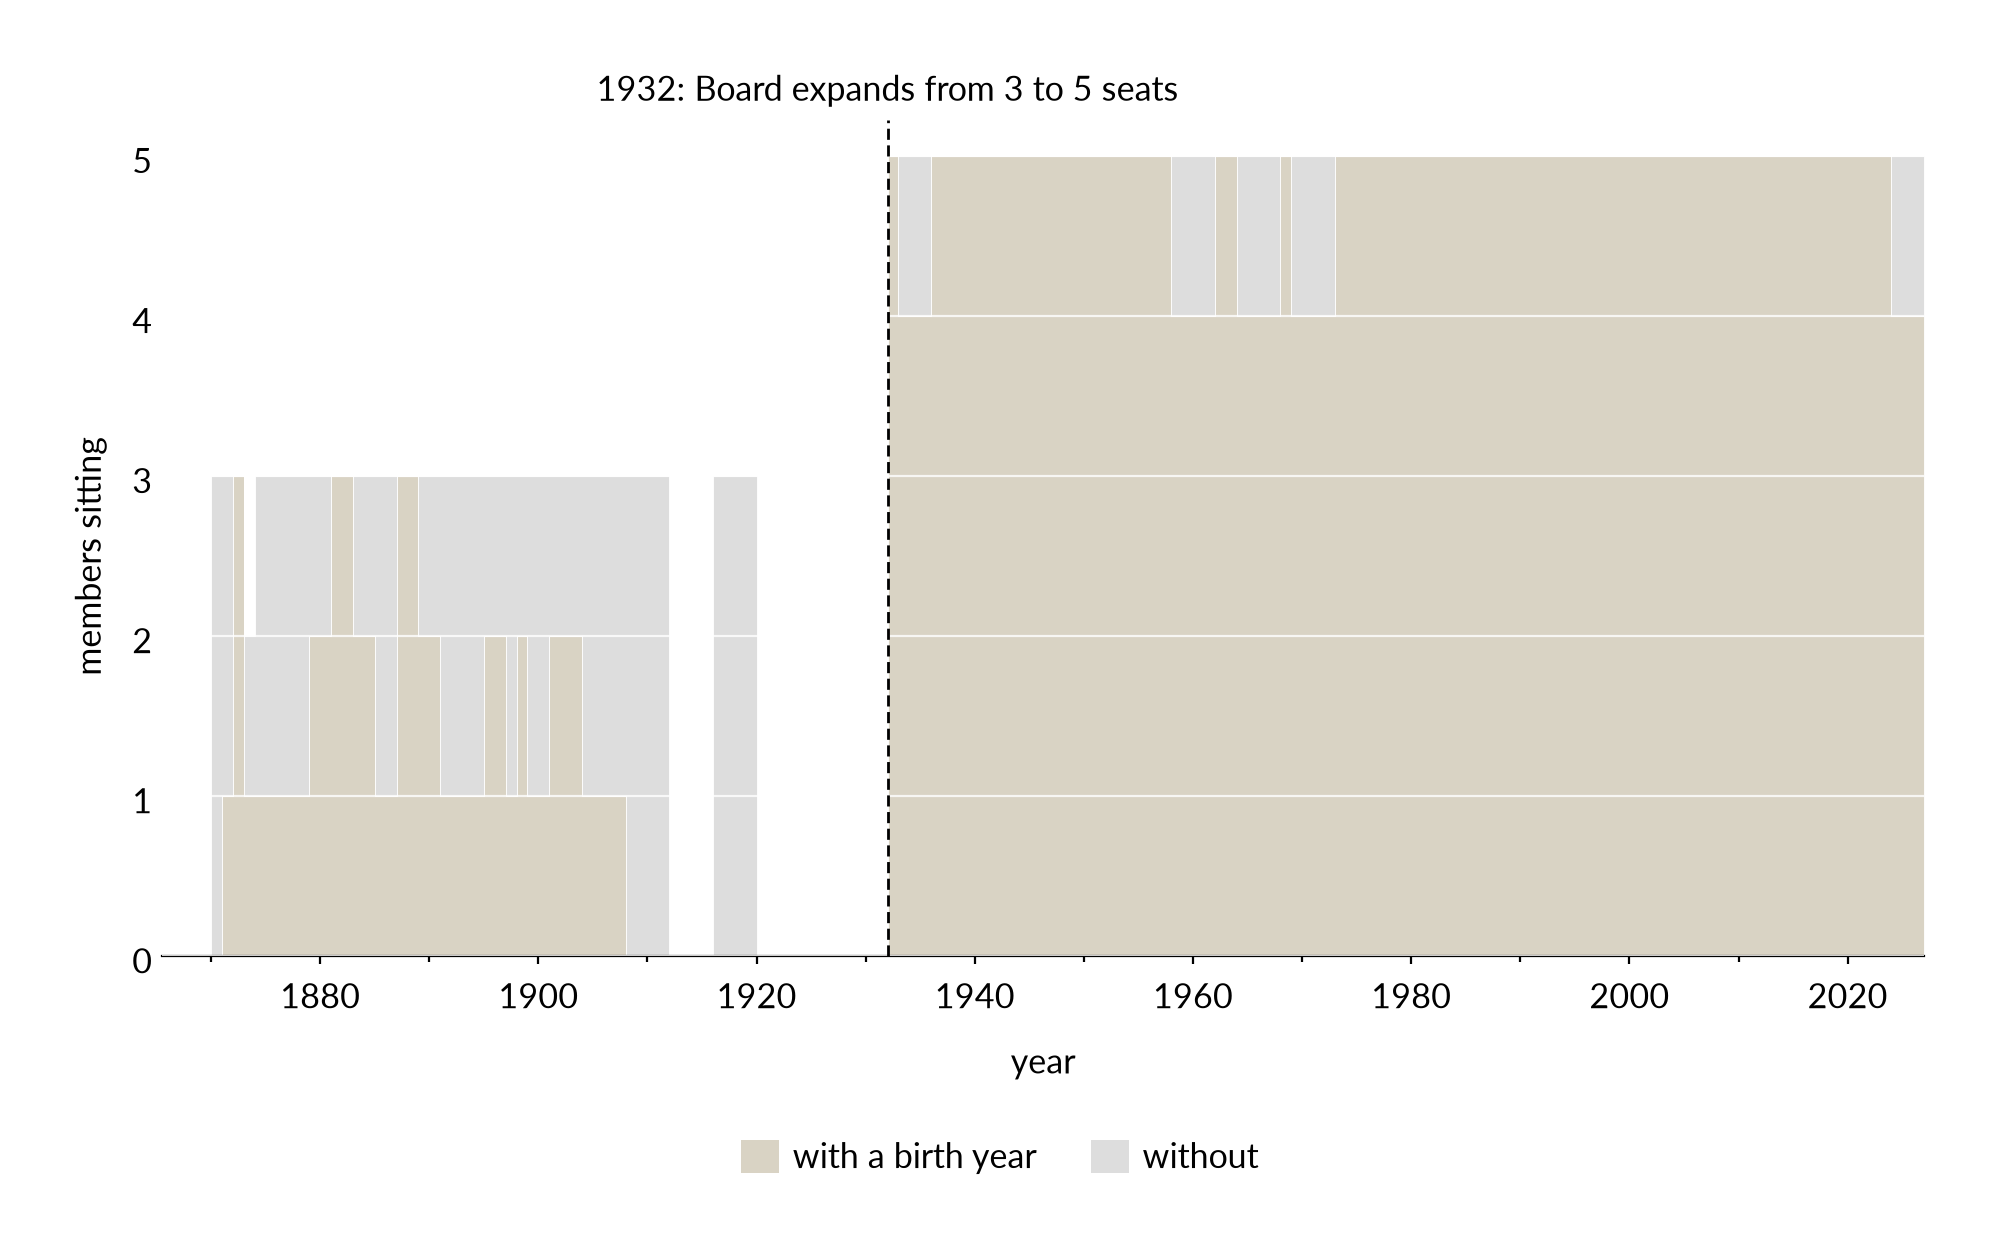
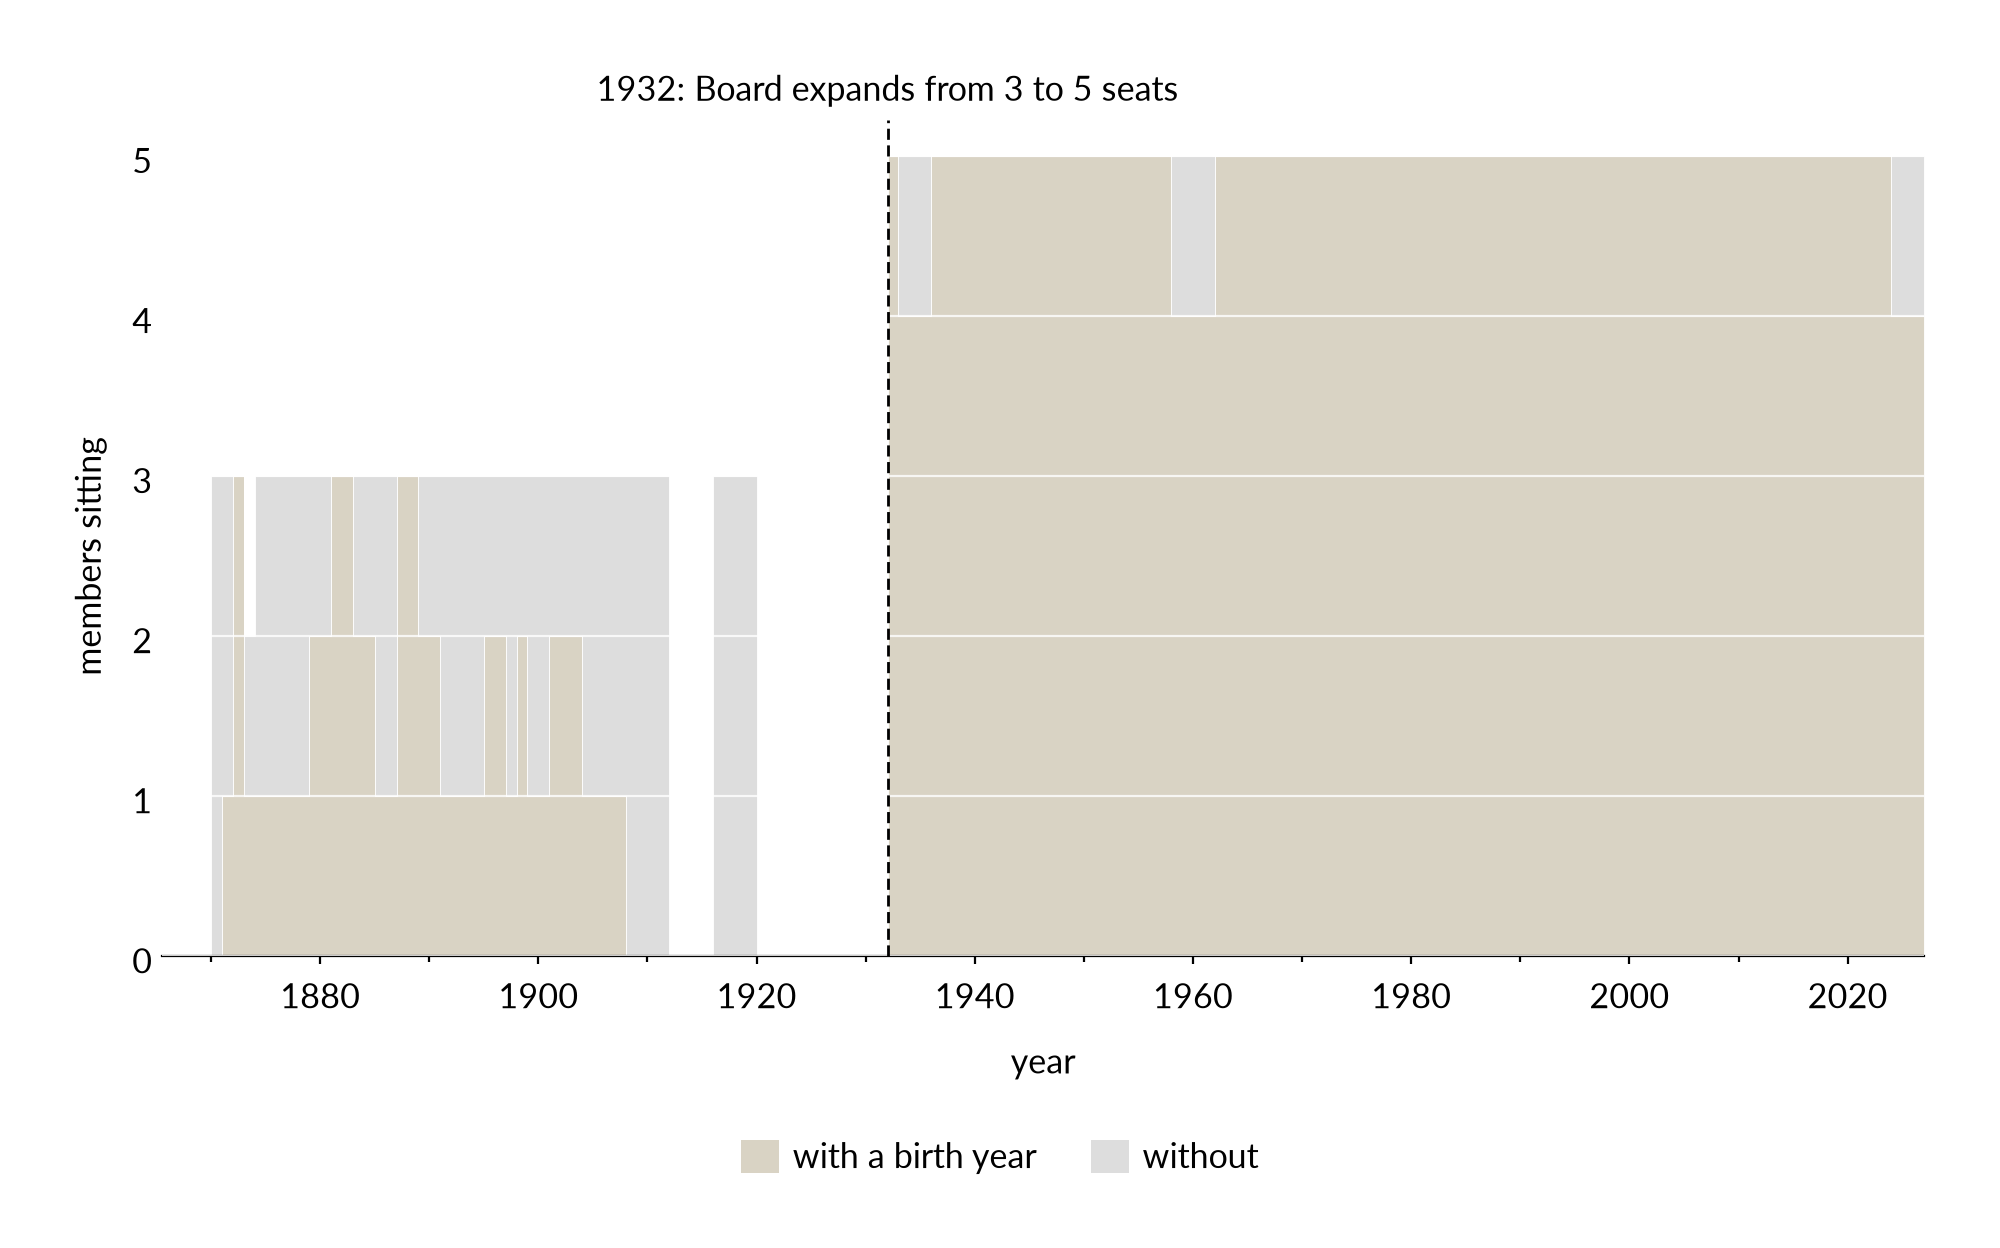
board_demographics: birth years for Casto (1924) and Phillips (1921) from the Northern Virginia Sun; Cunningham stays open
Ages read off the page images (the OCR printed Casto's 39 as 29). The
disagreement test now overwrites Casto's own row instead of adding one.

Changed region(s): [[0.62, 0.125, 0.682, 0.25]]

diff --git a/code/tests.py b/code/tests.py
@@ -174,9 +174,8 @@ def test_two_sources_disagreeing_on_race_is_a_finding():
 def test_a_birth_year_after_the_seating_is_rejected():
     """A birth year that makes a member a child when first seated."""
     def misread(d):
-        extra = d[d.name == "William A. Rowe"].iloc[[0]].copy()
-        extra["name"], extra["race"], extra["birth_year"] = "Harold J. Casto", "", "1953"
-        return pd.concat([d, extra], ignore_index=True)
+        d.loc[d.name == "Harold J. Casto", "birth_year"] = "1953"
+        return d
     err = breaks(board_members.pd, "read_csv",
                  patch_csv(board_members, lambda d: "race" in d.columns, misread),
                  build=board_members.build)

diff --git a/docs/board.md b/docs/board.md
@@ -20,7 +20,7 @@ are explained in `code/build/citekeys.py`, and what is still open is in
   to the member rests on the name, Arlington and, where the index gives
   one, an occupation, a spouse or a street, and four of that era were found
   in no census (B. M. Smith, H. L. Brown Jr, T. W. Richards, R. L. Lowry).
-- Birth years, for 86 of 119 members, rest on the census listings' ages and
+- Birth years, for 88 of 119 members, rest on the census listings' ages and
   on an age stated in an obituary or a profile, each right to within a
   year, and the sitting-age figure draws a year only when all but at most
   one sitting member has one. The figure is not in the paper yet, and its
